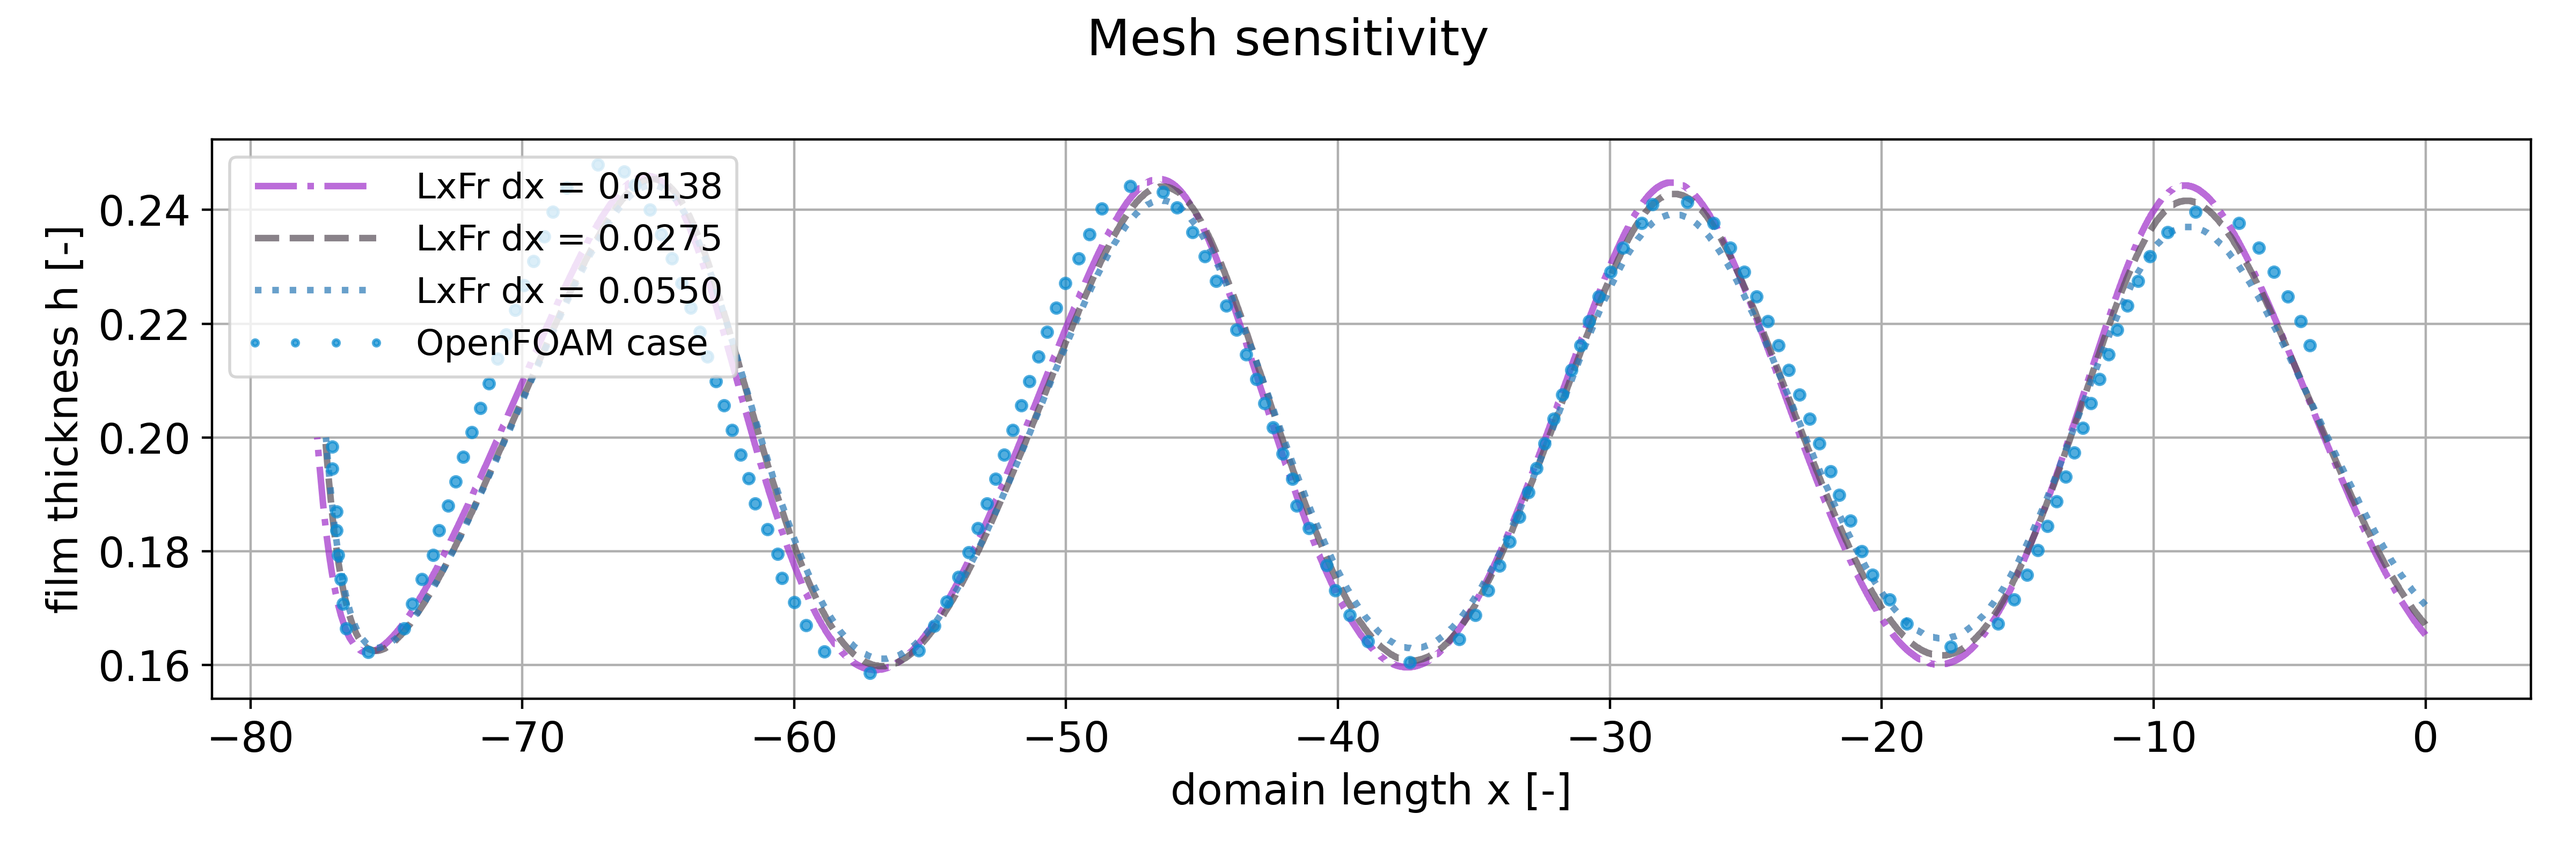
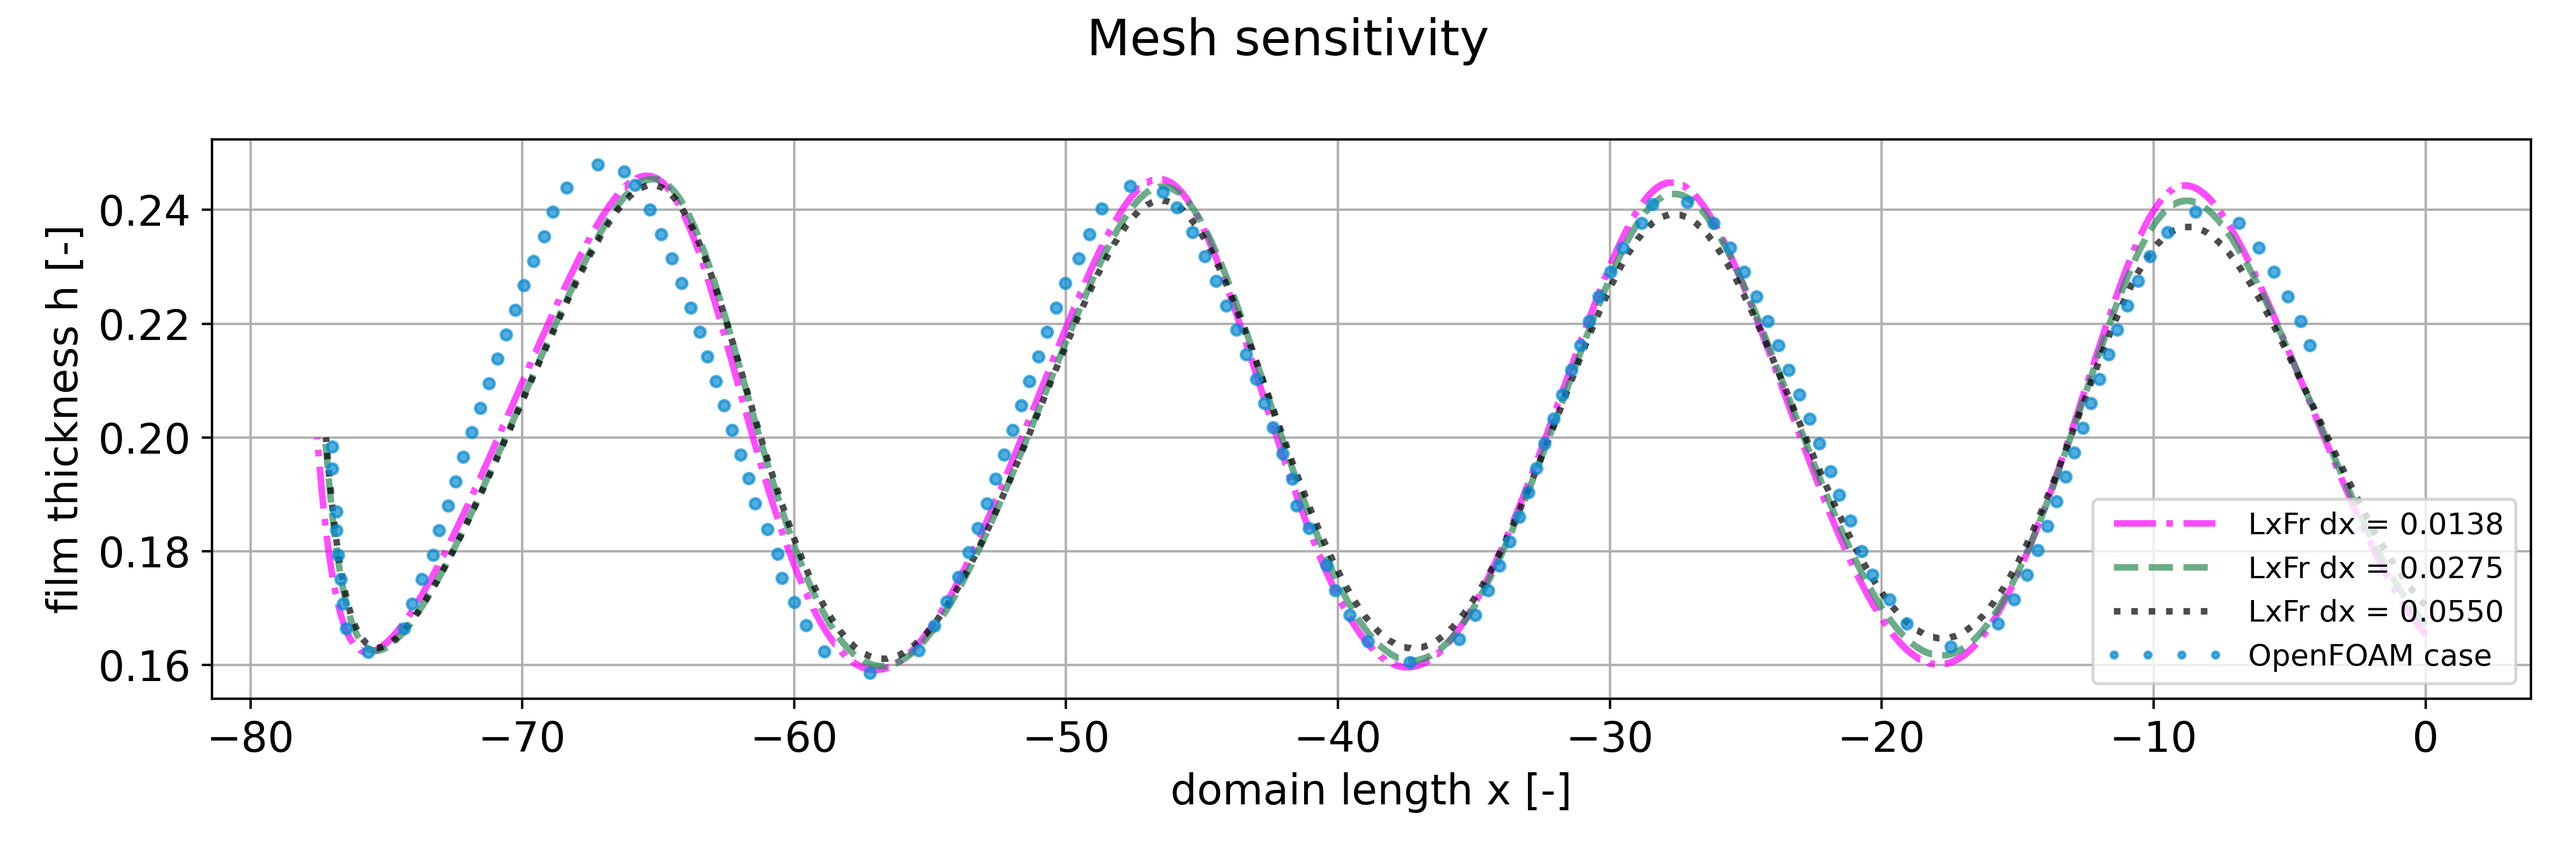
plot improvements

diff --git a/post_plotting_spectrograms_characteristics.py b/post_plotting_spectrograms_characteristics.py
@@ -16,6 +16,7 @@ import numpy as np
 import matplotlib
 from matplotlib import pyplot as plt
 from matplotlib import rc
+from matplotlib.ticker import FormatStrFormatter
 
 # spectrogram
 from scipy.signal import spectrogram
@@ -40,7 +41,7 @@ rc('font', **font)
 
 
 ####################
-os.chdir('RESULTS/')
+os.chdir('RESULTS-processed/')
 # Gather all computed configurations:
 # LIQUIDS = natsorted(glob.glob('2D*')) + natsorted(glob.glob('3D*'))
 LIQUIDS = natsorted(glob.glob('*'))
@@ -109,7 +110,7 @@ for LIQUID in LIQUIDS:
             # t-axis:
             n_files_in_time = len(filelist)
             t_axis = 100*dt*np.linspace(0, len(filelist), len(filelist))
-            # ^ multiplication by 100 because the saved solutions 
+            # ^ multiplication by 100 because the saved solutions
             # are every 100 steps.
 
             H_XF = np.zeros(H_XT.shape)
@@ -124,9 +125,16 @@ for LIQUID in LIQUIDS:
                                                        - Prof_time.mean())))
                 H_XF[:,j] = Prof_Freq
             plt.close()
-            plt.contourf(Freqs, x_axis, H_XF.T,
-                         cmap = 'PuBu')
+            fig, ax = plt.subplots()
+            contourplot_sp = plt.contourf(Freqs/100,
+                                          x_axis,#-x_axis.min(),
+                                          H_XF.T,
+                                          cmap = 'PuBu')
+            # plt.colorbar(contourplot_sp,
+            #              format = '%.2f',
+            #              anchor = (0.5, 0.5))
             # print('H_XF.T', H_XF.T)
+            ax.xaxis.set_major_formatter(FormatStrFormatter('%.2f'))
             plt.xlabel('frequency, [-]')
             plt.ylabel('length x, [-]')
             plt.xlim(0,)
@@ -140,10 +148,15 @@ for LIQUID in LIQUIDS:
                         bbox_inches = 'tight')
             print('Plotting characteristics ... ')
             plt.close()
-            plt.contourf(x_axis, t_axis, H_XT,
-                         cmap = 'PuBu')
-            plt.xlabel('length x, [-]')
-            plt.ylabel('time, [-]')
+            contourplot_ch = plt.contourf(t_axis,
+                                          x_axis,#-x_axis.min(),
+                                          H_XT.T,
+                                          cmap = 'PuBu')
+            plt.colorbar(contourplot_ch,
+                         format = '%.2f',
+                         anchor = (0.5, 0.5))
+            plt.xlabel('time, [-]')
+            plt.ylabel('length x, [-]')
             plt.title('Characteristics')
             # plt.title(subfolder[i])
             plt.savefig(directory + os.sep \

diff --git a/meshes_and_validation_OpenFOAMcase/meshes_schemes_validation.py b/meshes_and_validation_OpenFOAMcase/meshes_schemes_validation.py
@@ -45,10 +45,22 @@ titles = ['Different schemes',
 xlabel1 = 'domain length x [-]'#, left:inlet, right:outlet'
 ylabel1 = 'film thickness h [-]'
 
-colors = ['#9e2ec9','#574d57','#2878b5']
+colors = ['magenta','seagreen','black']
 types  = ['-.','--',':','']
 
 for j in range(len(titles)):
+
+    # read OF data
+    DATFILE = 'Validation_data_2D_OF_JFM' \
+                + os.sep + 'validation_JFM_OF'+'.dat'
+    VALIDATA = np.genfromtxt(DATFILE, delimiter=',', skip_header=1)
+
+    h_OF  = VALIDATA[:,0].reshape(-1,1)
+    x_OF  = VALIDATA[:,1].reshape(-1,1)
+
+    x_OF = x_OF.reshape(-1,1)
+    ##############
+
     # plots properties
     plt.figure(figsize=(12,4))
     plt.suptitle(titles[j])
@@ -91,6 +103,17 @@ for j in range(len(titles)):
         h_holder['h'+str(i)] = \
             data_holder['DATA_h'+str(i)][:,0]
 
+
+
+        # from sklearn.metrics import mean_squared_error
+        #
+        # from math import sqrt
+        # rms = sqrt(mean_squared_error(h_OF, h_holder['h'+str(i)]))
+        # print(rms)
+
+
+
+
         plt.plot(x_axis,
                  h_holder['h'+str(i)]
                  .reshape(-1,1),
@@ -102,8 +125,8 @@ for j in range(len(titles)):
                  alpha = alpha1)
 
     plt.grid()
-    plt.legend(loc='upper left',
-               fontsize=12,
+    plt.legend(loc='lower right',
+               fontsize=10,
                numpoints=4,
                handlelength=4,
                markerscale=0.6)
@@ -112,14 +135,7 @@ for j in range(len(titles)):
                 format='png', dpi=400)
 
 
-    DATFILE = 'Validation_data_2D_OF_JFM' \
-                + os.sep + 'validation_JFM_OF'+'.dat'
-    VALIDATA = np.genfromtxt(DATFILE, delimiter=',', skip_header=1)
-
-    h_OF  = VALIDATA[:,0].reshape(-1,1)
-    x_OF  = VALIDATA[:,1].reshape(-1,1)
-
-    x_OF = x_OF.reshape(-1,1)
+    # Plot also OF solution:
     # Domain length 77.28 = nx*dx = 1680*0.046 from JFM paper
     plt.plot(x_OF - 77.28,
              h_OF,
@@ -129,8 +145,8 @@ for j in range(len(titles)):
              label = 'OpenFOAM case',
              alpha = alpha1)
 
-    plt.legend(loc='upper left',
-               fontsize=12,
+    plt.legend(loc='lower right',
+               fontsize=10,
                numpoints=4,
                handlelength=4,
                markerscale=0.6)

diff --git a/assignment-DDFM-dats/Tsveti_adaptation_Tutorial_3_foreCasting_liquid_films.py b/assignment-DDFM-dats/Tsveti_adaptation_Tutorial_3_foreCasting_liquid_films.py
@@ -227,8 +227,8 @@ for i in range(len(option_list)):
     plt.suptitle(suptitle1)
     plt.title(title1, pad = 10)
 
-    plt.xlabel('cell index x')
-    plt.ylabel('film height h [-]')
+    plt.xlabel('cell index')
+    plt.ylabel('film thickness [-]')
     plt.tight_layout()
     plt.legend(loc = 'upper left')
     plt.grid(linewidth = 0.8)
